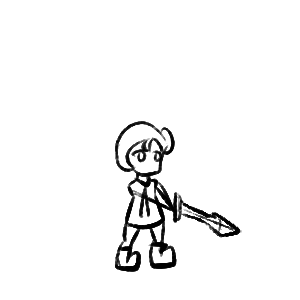
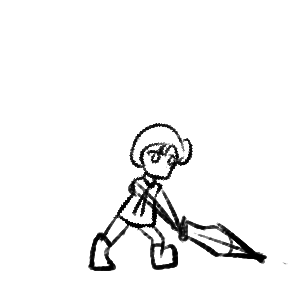
add players graphics

Changed region(s): [[0.27, 0.39, 0.9, 0.93]]

diff --git a/MCoM/resource/script/scene/BattleScene.js b/MCoM/resource/script/scene/BattleScene.js
@@ -69,6 +69,7 @@ class BattleScene{
         }
         
 
+
         this.move();
         this.card();
         this.useCard();
@@ -158,32 +159,40 @@ class BattleScene{
 
     move(){
         //player     
-        if(this.keyPressing("j")) { // ③
-            this.player.moveX(-5);
-            if(this.collider.isCrossed(this.player,this.enemyList)){
-                this.player.moveX(5);
-            }
-        }
-        if(this.keyPressing("l")) { // ③
-            this.player.moveX(5);
-            if(this.collider.isCrossed(this.player,this.enemyList)){
+        console.log(this.player.animation.status)
+        if(this.player.animation.status != "attack"){            
+            if(this.keyPressing("j")) { // ③
                 this.player.moveX(-5);
+                if(this.collider.isCrossed(this.player,this.enemyList)){
+                    this.player.moveX(5);
+                }
             }
-        }
-        if(this.keyPressing("i")) { // ③
-            this.player.moveY(5);
-            if(this.collider.isCrossed(this.player,this.enemyList)){
-                this.player.moveY(-5);
+            if(this.keyPressing("l")) { // ③
+                this.player.moveX(5);
+                if(this.collider.isCrossed(this.player,this.enemyList)){
+                    this.player.moveX(-5);
+                }
             }
-        }
-        if(this.keyPressing("k")) { // ③
-            this.player.moveY(-5);
-            if(this.collider.isCrossed(this.player,this.enemyList)){
+            if(this.keyPressing("i")) { // ③
                 this.player.moveY(5);
+                if(this.collider.isCrossed(this.player,this.enemyList)){
+                    this.player.moveY(-5);
+                }
             }
-        }
-        if(this.keyPressing("u")) { // ③
-            this.player.jump();
+            if(this.keyPressing("k")) { // ③
+                this.player.moveY(-5);
+                if(this.collider.isCrossed(this.player,this.enemyList)){
+                    this.player.moveY(5);
+                }
+            }
+            if(! this.keyPressing("j") && ! this.keyPressing("k") && ! this.keyPressing("i") && ! this.keyPressing("l")){
+                if(this.player.animation.status == "walk"){
+                    this.player.animation.setStatus("wait");
+                }
+            }
+            if(this.keyPressing("u")) { // ③
+                this.player.jump();
+            }
         }
         //enemy
         var test = [this.player,this.enemyList];
@@ -193,6 +202,7 @@ class BattleScene{
         for(var i = 0;i < this.enemyList.length;i++){
             var enemy = this.enemyList[i]
             //console.log(enemy.action);
+            
             if(enemy.action == "move"){
                 var num = 1;
                 if(enemy.actionFlame <= 10){

diff --git a/MCoM/resource/script/system/battle/player/Animation.js b/MCoM/resource/script/system/battle/player/Animation.js
@@ -40,6 +40,11 @@ class Animation{
     initAsset(){
         this.assets.add({alias:"player2",src:"MCoM/resource/img/player2.png"});
         this.assets.add({alias:"player3",src:"MCoM/resource/img/player3.png"});
+        this.assets.add({alias:"breaked",src:"MCoM/resource/img/p_breaked.png"});
+        this.assets.add({alias:"walk1",src:"MCoM/resource/img/p_walk1.png"});
+        this.assets.add({alias:"walk2",src:"MCoM/resource/img/p_walk2.png"});
+        this.assets.add({alias:"walk3",src:"MCoM/resource/img/p_walk3.png"});
+        this.assets.add({alias:"walk4",src:"MCoM/resource/img/p_walk4.png"});
 
     }
 
@@ -58,9 +63,10 @@ class Animation{
 
     initAnimationFlameDict(){
         this.animationFlameDict["wait"] = [["player",60]];
-        this.animationFlameDict["walk"] = [["player",60]];
+        this.animationFlameDict["walk"] = [["walk1",5],["walk2",10],["walk3",15],["walk4",20]];
         this.animationFlameDict["stand"] = [["player",60]];
         this.animationFlameDict["jump"] = [["player",60]];
+        this.animationFlameDict["breaked"] = [["breaked",60]];
         this.animationFlameDict["damaged"] = [["player",60]];
         this.animationFlameDict["heal"] = [["player",60]];
 
@@ -74,6 +80,12 @@ class Animation{
             this.animationLoadDict["player"] = await this.assets.load("player");
             this.animationLoadDict["player2"] = await this.assets.load("player2");
             this.animationLoadDict["player3"] = await this.assets.load("player3");
+            this.animationLoadDict["breaked"] = await this.assets.load("breaked");
+            this.animationLoadDict["walk1"] = await this.assets.load("walk1");
+            this.animationLoadDict["walk2"] = await this.assets.load("walk2");
+            this.animationLoadDict["walk3"] = await this.assets.load("walk3");
+            this.animationLoadDict["walk4"] = await this.assets.load("walk4");
+            
         })();
         
         /*
@@ -103,6 +115,14 @@ class Animation{
         //console.log(this.status,10);
         if(this.animationData[1] == this.flame){
             if(this.animationDataArray.length == 0){
+                if(this.status == "walk"){
+                    this.setAnimationArray();
+                    this.nextAnimationData();
+                    this.player.graphicMain.texture = this.getAnimationGraphic();   
+                    this.flame = 0;
+                    return 0; 
+                }
+
                 this.status = "wait";
                 this.setAnimationArray();
                 this.nextAnimationData();

diff --git a/MCoM/resource/script/system/base/Route.js b/MCoM/resource/script/system/base/Route.js
@@ -111,6 +111,17 @@ class Route{
                         //icon = new PIXI.Sprite(this.rootIconDict["shop"]);
                         //icon = new PIXI.Graphics().rect(-20,-20,40,40).fill(0xFFFFFF);
                         break;
+
+                    case "event":
+                        circle.fill(0xbb330A);
+                        icon = new PIXI.Sprite();
+                        
+                        icon = new PIXI.Sprite(await this.assets.load("event"));
+                        icon.scale.x = icon.scale.y =0.13;
+                        icon.anchor.x = icon.anchor.y = 0.5;
+                        //icon = new PIXI.Sprite(this.rootIconDict["shop"]);
+                        //icon = new PIXI.Graphics().rect(-20,-20,40,40).fill(0xFFFFFF);
+                        break;
                 }
 
                 data.push(circle);
@@ -214,6 +225,7 @@ class Route{
     initAsset(){
         this.assets.add({alias:"battle",src:"MCoM/resource/img/battle.png"});
         this.assets.add({alias:"shop",src:"MCoM/resource/img/shop.png"});
+        this.assets.add({alias:"event",src:"MCoM/resource/img/event.png"});
         this.assets.add({alias:"goal",src:"MCoM/resource/img/goal.png"});
     }
 
@@ -224,6 +236,8 @@ class Route{
             console.log("aaaå")
             this.rootIconDict["battle"] = await this.assets.load("battle");
             this.rootIconDict["shop"] = await this.assets.load("shop");
+            this.rootIconDict["event"] = await this.assets.load("event");
+            
             this.rootIconDict["goal"] = await this.assets.load("goal");
             console.log("aaaå")
         })();

diff --git a/game1.html b/game1.html
@@ -28,10 +28,16 @@
       <img src="MCoM/resource/img/medical.png"></img>
       <img src="MCoM/resource/img/battle.png"></img>
       <img src="MCoM/resource/img/shop.png"></img>
+      <img src="MCoM/resource/img/event.png"></img>
       <img src="MCoM/resource/img/goal.png"></img>
       <img src="MCoM/resource/img/player.png"></img>
       <img src="MCoM/resource/img/player2.png"></img>
       <img src="MCoM/resource/img/player3.png"></img>
+      <img src="MCoM/resource/img/p_breaked.png"></img>
+      <img src="MCoM/resource/img/p_walk1.png"></img>
+      <img src="MCoM/resource/img/p_walk2.png"></img>
+      <img src="MCoM/resource/img/p_walk3.png"></img>
+      <img src="MCoM/resource/img/p_walk4.png"></img>
 
 
     <script src = "js/move.js">
